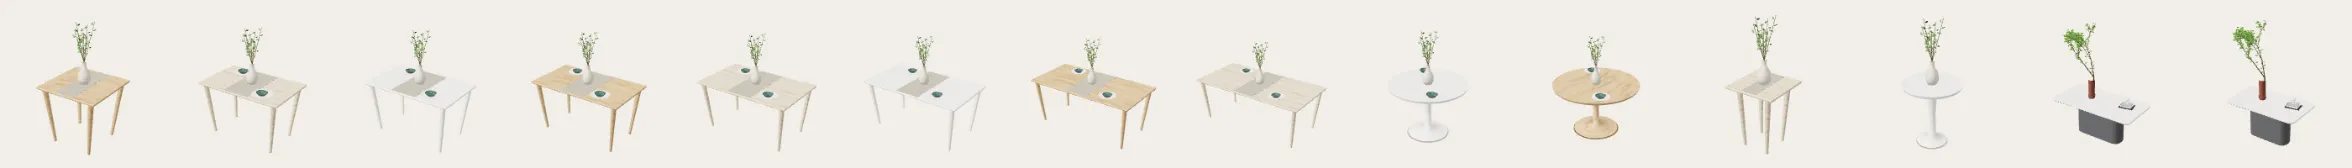
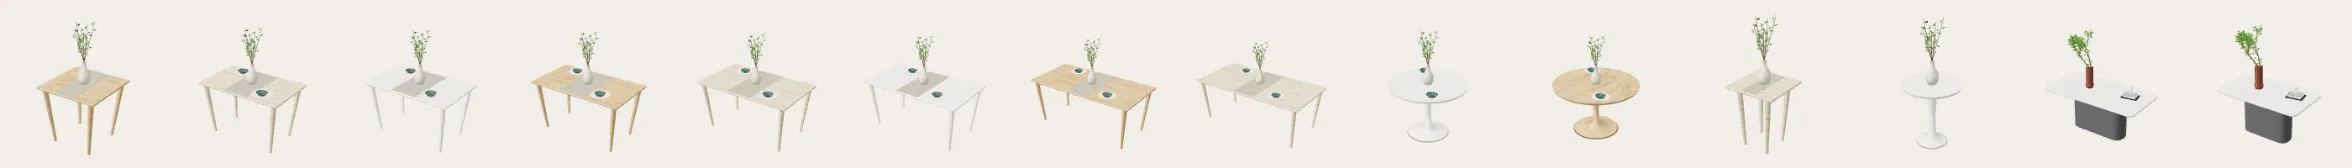
岩板餐桌上的枝葉縮小
Claude-Session: https://claude.ai/code/session_01DPbMHcao9tPiyFSu6sUn7z

diff --git a/js/plan.js b/js/plan.js
@@ -1,9 +1,9 @@
 // 新板東京 A1（11F）：依平面圖描出的牆、窗、地坪（單位 cm）
-import { PLAN_HH } from './plan-hh.js?v=20261118c';
-import { PLAN_XS } from './plan-xs.js?v=20261118c';
-import { PLAN_WX_A1 } from './plan-wx-a1.js?v=20261118c';
-import { PLAN_WX_A2 } from './plan-wx-a2.js?v=20261118c';
-import { PLAN_WX_B1 } from './plan-wx-b1.js?v=20261118c';
+import { PLAN_HH } from './plan-hh.js?v=20261118d';
+import { PLAN_XS } from './plan-xs.js?v=20261118d';
+import { PLAN_WX_A1 } from './plan-wx-a1.js?v=20261118d';
+import { PLAN_WX_A2 } from './plan-wx-a2.js?v=20261118d';
+import { PLAN_WX_B1 } from './plan-wx-b1.js?v=20261118d';
 
 const PLAN_A1 = {"H":280,"W":1248,"D":909.3,"walls":[[108.0,0.0,232.0,16.0,0,280],[232.0,0.0,372.0,16.0,0,70],[232.0,0.0,372.0,16.0,240,280],[372.0,0.0,461.3,16.0,0,280],[461.3,0.0,641.3,16.0,0,70],[461.3,0.0,641.3,16.0,240,280],[641.3,0.0,725.3,16.0,0,280],[725.3,0.0,905.3,16.0,0,70],[725.3,0.0,905.3,16.0,240,280],[905.3,0.0,1028.0,16.0,0,280],[108.0,0.0,205.3,106.7,0,280],[925.3,0.0,1028.0,96.0,0,280],[108.0,846.7,208.0,909.3,0,280],[928.0,846.7,1028.0,909.3,0,280],[108.0,106.7,125.3,329.3,0,280],[0.0,329.3,14.7,346.7,0,280],[14.7,329.3,78.7,346.7,0,120],[14.7,329.3,78.7,346.7,180,280],[0.0,346.7,14.7,669.3,0,280],[158.7,426.7,172.0,606.7,0,280],[172.0,426.7,561.3,440.0,0,280],[238.7,440.0,245.3,606.7,0,280],[548.0,440.0,558.7,520.0,0,280],[548.0,520.0,558.7,606.7,210,280],[554.7,326.7,565.3,426.7,210,280],[436.0,16.0,448.0,316.0,0,280],[436.0,316.0,561.3,326.7,0,280],[561.3,316.0,648.0,326.7,210,280],[648.0,16.0,661.3,326.7,0,280],[14.7,606.7,245.3,620.0,0,280],[245.3,606.7,265.3,620.0,0,280],[265.3,606.7,352.0,620.0,210,280],[368.0,606.7,561.3,620.0,0,280],[561.3,606.7,648.0,620.0,210,280],[648.0,606.7,661.3,620.0,0,280],[661.3,606.7,734.7,620.0,210,280],[734.7,606.7,832.0,620.0,0,280],[354.7,620.0,368.0,689.3,0,280],[354.7,689.3,368.0,826.7,0,70],[354.7,689.3,368.0,826.7,240,280],[354.7,826.7,368.0,893.3,0,280],[648.0,620.0,661.3,893.3,0,280],[818.7,620.0,832.0,893.3,0,280],[208.0,893.3,928.0,909.3,0,280],[1028.0,893.3,1248.0,909.3,0,280],[948.0,96.0,968.0,726.7,0,280],[968.0,709.3,1248.0,726.7,0,280],[1234.7,726.7,1248.0,740.0,0,280],[1234.7,740.0,1248.0,846.7,210,280],[1234.7,846.7,1248.0,893.3,0,280],[108.0,620.0,116.0,846.7,0,110],[8.0,661.3,108.0,669.3,0,110],[78.7,329.3,185.3,346.7,0,280],[172.0,346.7,185.3,426.7,210,280],[352.0,606.7,368.0,620.0,0,280]],"cuts":[[25],[28],[26,27],[20],[21],[22,23],[32]],"wins":[[232.0,0.0,372.0,16.0,70,240],[461.3,0.0,641.3,16.0,70,240],[725.3,0.0,905.3,16.0,70,240],[14.7,329.3,78.7,346.7,120,180],[354.7,689.3,368.0,826.7,70,240]],"floors":[[125.3,16.0,436.0,326.7,"main"],[185.3,326.7,561.3,426.7,"main"],[448.0,16.0,648.0,316.0,"main"],[561.3,316.0,648.0,326.7,"main"],[661.3,16.0,948.0,326.7,"main"],[561.3,326.7,948.0,620.0,"main"],[832.0,620.0,948.0,893.3,"main"],[368.0,620.0,648.0,893.3,"main"],[548.0,520.0,558.7,606.7,"main"],[14.7,346.7,158.7,606.7,"bath"],[661.3,620.0,818.7,893.3,"bath"],[172.0,440.0,238.7,606.7,"main"],[245.3,440.0,548.0,606.7,"main"],[948.0,726.7,1234.7,893.3,"main"],[116.0,620.0,354.7,893.3,"balc"],[8.0,620.0,108.0,661.3,"balc"],[265.3,606.7,352.0,620.0,"balc"],[158.7,346.7,172.0,426.7,"bath"],[172.0,346.7,185.3,426.7,"main"]],"slab":[[108.0,0.0,968.0,909.3],[0.0,329.3,108.0,669.3],[968.0,709.3,1248.0,909.3]],"rooms":[{"id":"ld","n":"客餐廳","rs":[[661.3,16.0,948.0,326.7],[561.3,326.7,948.0,620.0]],"r":[561.3,16.0,948.0,620.0]},{"id":"master","n":"主臥","rs":[[125.3,16.0,436.0,326.7],[172.0,326.7,561.3,426.7]],"r":[125.3,16.0,561.3,426.7]},{"id":"bed2","n":"臥室 2","rs":[[448.0,16.0,648.0,326.7]],"r":[448.0,16.0,648.0,326.7]},{"id":"bed3","n":"臥室 3","rs":[[368.0,620.0,648.0,893.3]],"r":[368.0,620.0,648.0,893.3]},{"id":"kitchen","n":"廚房","rs":[[172.0,440.0,558.7,606.7]],"r":[172.0,440.0,558.7,606.7]},{"id":"bath1","n":"主臥衛浴","rs":[[14.7,346.7,172.0,606.7]],"r":[14.7,346.7,172.0,606.7]},{"id":"bath2","n":"客用衛浴","rs":[[661.3,620.0,818.7,893.3]],"r":[661.3,620.0,818.7,893.3]},{"id":"foyer","n":"玄關","rs":[[832.0,620.0,948.0,893.3],[948.0,726.7,1234.7,893.3]],"r":[832.0,620.0,1234.7,893.3]},{"id":"balcony","n":"陽台","rs":[[116.0,620.0,354.7,893.3]],"r":[116.0,620.0,354.7,893.3]}],"defaults":[{"id":"d0","key":"sofa:5","x":900.0,"y":242.7,"r":90},{"id":"d1","key":"coffee:0","x":778.7,"y":242.7,"r":0},{"id":"d2","key":"tvcab:3","x":681.3,"y":233.3,"r":270},{"id":"d3","key":"tv:4","x":666.7,"y":233.3,"r":270},{"id":"d4","key":"rug:2","x":805.3,"y":242.7,"r":90},{"id":"d5","key":"lamp:0","x":925.3,"y":109.3,"r":0},{"id":"d6","key":"plant:3","x":921.3,"y":389.3,"r":0},{"id":"d7","key":"dtable:4","x":793.3,"y":478.7,"r":0},{"id":"d8","key":"chair:0","x":756.0,"y":420.0,"r":0},{"id":"d9","key":"chair:0","x":836.0,"y":420.0,"r":0},{"id":"d10","key":"chair:0","x":756.0,"y":556.0,"r":180},{"id":"d11","key":"chair:0","x":836.0,"y":556.0,"r":180},{"id":"d12","key":"bed:3","x":225.3,"y":189.3,"r":270},{"id":"d13","key":"nstand:1","x":148.0,"y":293.3,"r":270},{"id":"d14","key":"ward:1","x":406.7,"y":166.7,"r":90},{"id":"d15","key":"bed:1","x":505.3,"y":116.0,"r":0},{"id":"d16","key":"desk:1","x":617.3,"y":93.3,"r":90},{"id":"d17","key":"dchair:0","x":572.0,"y":93.3,"r":270},{"id":"d18","key":"shelf:1","x":632.0,"y":240.0,"r":90},{"id":"d19","key":"bed:3","x":548.0,"y":806.7,"r":90},{"id":"d20","key":"desk:1","x":398.7,"y":757.3,"r":270},{"id":"d21","key":"dchair:1","x":436.0,"y":757.3,"r":90},{"id":"d22","key":"ward:3","x":412.0,"y":862.7,"r":180},{"id":"d23","key":"cook:0","x":289.3,"y":470.7,"r":0},{"id":"d24","key":"hood:1","x":289.3,"y":465.3,"r":0},{"id":"d25","key":"kcab:2","x":357.3,"y":470.7,"r":0},{"id":"d26","key":"sink:2","x":426.7,"y":470.7,"r":0},{"id":"d27","key":"fridge:2","x":512.0,"y":477.3,"r":0},{"id":"d28","key":"tub:2","x":85.3,"y":570.7,"r":0},{"id":"d29","key":"toilet:1","x":50.7,"y":476.0,"r":270},{"id":"d30","key":"vanity:0","x":38.7,"y":384.0,"r":270},{"id":"d31","key":"mirror:0","x":22.7,"y":384.0,"r":270},{"id":"d32","key":"tub:3","x":740.0,"y":858.7,"r":0},{"id":"d33","key":"toilet:1","x":782.7,"y":720.0,"r":90},{"id":"d34","key":"vanity:0","x":788.0,"y":645.3,"r":0},{"id":"d35","key":"mirror:0","x":788.0,"y":628.0,"r":0},{"id":"d36","key":"washer:0","x":208.0,"y":656.0,"r":0},{"id":"d37","key":"shoe:4","x":1098.7,"y":746.7,"r":0},{"id":"d38","key":"plant:1","x":1205.3,"y":873.3,"r":0}],"door":[1237.3,740.0,1245.3,846.7],"start":[1175,793],"doors":[[1234.7,740.0,106.7,90,180],[648.0,321.3,86.7,180,270],[560.0,426.7,100.0,270,180],[553.3,606.7,86.7,270,180],[178.7,349.3,74.7,90,180],[352.0,613.3,86.7,180,90],[648.0,613.3,86.7,180,90],[661.3,613.3,73.3,0,90]]};
 

diff --git a/js/models.js b/js/models.js
@@ -1,8 +1,8 @@
 // 以程式產生的 3D 家具模型。每件家具都依型錄的實際尺寸（cm）建模，再整體縮成公尺。
 import * as THREE from 'three';
 import { RoundedBoxGeometry } from '../vendor/RoundedBoxGeometry.js';
-import { WOODS, FINISH } from './catalog.js?v=20261118c';
-import * as MT from './mats.js?v=20261118c';
+import { WOODS, FINISH } from './catalog.js?v=20261118d';
+import * as MT from './mats.js?v=20261118d';
 
 function rnd(seed) { let s = seed; return () => (s = (s * 16807) % 2147483647) / 2147483647; }
 function shade(hex, f) { const c = new THREE.Color(hex); c.multiplyScalar(f); return '#' + c.getHexString(); }
@@ -727,7 +727,7 @@ function branchTree(g, x, y, z, H, seed = 1) {
   seg(new THREE.Vector3(x, y, z), new THREE.Vector3(0.18, 1, 0.06).normalize(), H * 0.3, 1.4, 4);
   const lg = new THREE.PlaneGeometry(3.6, 1.8); lg.translate(1.8, 0, 0);
   const im = new THREE.InstancedMesh(lg, twoSided(MT.flat('#FFFFFF', 0.7)), leaves.length), o = new THREE.Object3D(), col = new THREE.Color();
-  leaves.forEach(([p, a, t], i) => { o.position.copy(p); o.rotation.set((t - 0.5) * 1.6, a, -0.4 + t * 0.8); o.scale.setScalar(0.8 + t * 0.5); o.updateMatrix(); im.setMatrixAt(i, o.matrix); im.setColorAt(i, col.set(t > 0.6 ? '#8CC152' : t > 0.3 ? '#5E9A38' : '#4C7F2E')); });
+  leaves.forEach(([p, a, t], i) => { o.position.copy(p); o.rotation.set((t - 0.5) * 1.6, a, -0.4 + t * 0.8); o.scale.setScalar(0.7 + t * 0.4); o.updateMatrix(); im.setMatrixAt(i, o.matrix); im.setColorAt(i, col.set(t > 0.6 ? '#8CC152' : t > 0.3 ? '#5E9A38' : '#4C7F2E')); });
   im.castShadow = true; g.add(im);
 }
 function slabTable(g, it, o) {
@@ -740,7 +740,7 @@ function slabTable(g, it, o) {
   const vx = -w * 0.14, vz = -d * 0.05, vh = 40;
   lathe(g, [[0, 0], [6.5, 0], [7, 2], [7, 4], [6.2, 5], [6.4, vh * 0.55], [6.6, vh - 1], [7, vh]], MT.flat('#7E4A3C', 0.12), vx, h, vz);
   cyl(g, 7.2, 7.2, 1.2, MT.flat('#7A4A3C', 0.3), vx, h + 3.2, vz, 24); cyl(g, 7.4, 7.4, 1, MT.flat('#7A4A3C', 0.3), vx, h + 6, vz, 24);
-  branchTree(g, vx, h + 4, vz, Math.min(150, 270 - h - 50), 7);
+  branchTree(g, vx, h + 4, vz, 95, 7);
   // 托盤＋書＋小白公仔
   const tx = w * 0.3, tz = -d * 0.12; rbox(g, 28, 1.2, 20, MT.flat('#2A2B2D', 0.4), tx, h + 0.6, tz, 0.5).rotation.y = 0.18;
   rbox(g, 22, 2.6, 16, MT.flat('#EDE6D8', 0.8), tx, h + 2.5, tz, 0.4).rotation.y = 0.12; rbox(g, 20, 2, 14, MT.flat('#8E9AA6', 0.8), tx, h + 4.8, tz, 0.4).rotation.y = 0.24;

diff --git a/js/phone.js b/js/phone.js
@@ -1,7 +1,7 @@
 // 手機端：風格、平面圖編輯器、3D 家具型錄、人偶、3D 導覽搖桿
-import { PLAN, UNIT, setUnit, roomAt, setCuts, cutRects } from './plan.js?v=20261118c';
-import { CATS, GROUPS, PEOPLE, getItem, STYLES, FLOOR_GROUPS, FLOORS, WALL_GROUPS, parseWall, FINISH, finishOf, lenRange, elevRange, resolvePeople, keepOffBeds } from './catalog.js?v=20261118c';
-import * as ART from './planart.js?v=20261118c';
+import { PLAN, UNIT, setUnit, roomAt, setCuts, cutRects } from './plan.js?v=20261118d';
+import { CATS, GROUPS, PEOPLE, getItem, STYLES, FLOOR_GROUPS, FLOORS, WALL_GROUPS, parseWall, FINISH, finishOf, lenRange, elevRange, resolvePeople, keepOffBeds } from './catalog.js?v=20261118d';
+import * as ART from './planart.js?v=20261118d';
 
 const $ = (id) => document.getElementById(id);
 const esc = (s) => String(s).replace(/[&<>"]/g, (c) => ({ '&': '&amp;', '<': '&lt;', '>': '&gt;', '"': '&quot;' }[c]));
@@ -452,7 +452,7 @@ function thumbStrip(key, sk) {
 async function fillThumbs() {
   const run = ++thumbRun, need = [...document.querySelectorAll('#list img[data-th]')];
   if (!need.length) return;   // 全部都有現成圖片：不用載入 3D 繪圖程式
-  try { thumbMod = thumbMod || await import('./thumbs.js?v=20261118c'); } catch (e) { return; }
+  try { thumbMod = thumbMod || await import('./thumbs.js?v=20261118d'); } catch (e) { return; }
   for (const img of need) {
     if (run !== thumbRun) return;
     const k = img.dataset.th;
@@ -485,7 +485,7 @@ function warmThumbs() {
 async function warmStep() {
   if (!warmList.length) return;
   if (S.drag || (S.st && S.st.mode === 'tour') || Date.now() - lastTouch < 1500) { warmTimer = setTimeout(warmStep, 600); return; }   // 手指在操作時不畫縮圖，按鈕才不會卡
-  try { thumbMod = thumbMod || await import('./thumbs.js?v=20261118c'); } catch (e) { return; }
+  try { thumbMod = thumbMod || await import('./thumbs.js?v=20261118d'); } catch (e) { return; }
   const k = warmList.shift();
   if (!thumbCache.has(k)) { const [key, sk] = k.split('@'); try { thumbCache.set(k, thumbMod.renderThumb(getItem(key, sk), sk)); } catch (e) { thumbCache.set(k, ''); } }
   warmTimer = setTimeout(warmStep, S.sheet ? 40 : 220);   // 型錄沒打開時慢慢畫就好

diff --git a/js/host.js b/js/host.js
@@ -1,10 +1,10 @@
 // 大螢幕（電腦）端：3D 場景、遊戲流程、手機連線
 import * as THREE from 'three';
 import { RoomEnvironment } from '../vendor/RoomEnvironment.js';
-import { PLAN, UNIT, UNITS, setUnit, roomAt, setCuts, cutRects } from './plan.js?v=20261118c';
-import { getItem, STYLES, FLOORS, WALL_GROUPS, parseWall, FINISH, finishOf, lenRange, elevRange, wallSegs, doorGap, resolvePeople, keepOffBeds } from './catalog.js?v=20261118c';
-import { buildItem, buildPerson, M } from './models.js?v=20261118c';
-import * as MT from './mats.js?v=20261118c';
+import { PLAN, UNIT, UNITS, setUnit, roomAt, setCuts, cutRects } from './plan.js?v=20261118d';
+import { getItem, STYLES, FLOORS, WALL_GROUPS, parseWall, FINISH, finishOf, lenRange, elevRange, wallSegs, doorGap, resolvePeople, keepOffBeds } from './catalog.js?v=20261118d';
+import { buildItem, buildPerson, M } from './models.js?v=20261118d';
+import * as MT from './mats.js?v=20261118d';
 import { EffectComposer } from '../vendor/jsm/postprocessing/EffectComposer.js';
 import { RenderPass } from '../vendor/jsm/postprocessing/RenderPass.js';
 import { GTAOPass } from '../vendor/jsm/postprocessing/GTAOPass.js';

diff --git a/js/thumbs.js b/js/thumbs.js
@@ -1,9 +1,9 @@
 // 手機型錄用的 3D 縮圖：把每件家具的 3D 模型算成一張小圖
 import * as THREE from 'three';
 import { RoomEnvironment } from '../vendor/RoomEnvironment.js';
-import { STYLES } from './catalog.js?v=20261118c';
-import { buildItem, buildPerson } from './models.js?v=20261118c';
-import { setTexSize } from './mats.js?v=20261118c';
+import { STYLES } from './catalog.js?v=20261118d';
+import { buildItem, buildPerson } from './models.js?v=20261118d';
+import { setTexSize } from './mats.js?v=20261118d';
 setTexSize(256);
 
 let R = null, scene, cam;

diff --git a/js/planart.js b/js/planart.js
@@ -1,6 +1,6 @@
 // 手機平面圖的繪製：有材質的地板、粗黑牆、門弧線，以及每種家具的俯視圖（單位 cm，等比例）
-import { PLAN } from './plan.js?v=20261118c';
-import { STYLES, FLOORS, planColor, wallSegs, doorGap } from './catalog.js?v=20261118c';
+import { PLAN } from './plan.js?v=20261118d';
+import { STYLES, FLOORS, planColor, wallSegs, doorGap } from './catalog.js?v=20261118d';
 
 const INK = '#4A4038';
 function tint(hex, f) {   // f > 1 變亮，f < 1 變暗

diff --git a/index.html b/index.html
@@ -85,6 +85,6 @@
   <div id="tip" class="card">3D 畫面為示意，家具與裝潢非交屋附贈，實際以合約為準。</div>
 </div>
 
-<script type="module" src="./js/host.js?v=20261118c"></script>
+<script type="module" src="./js/host.js?v=20261118d"></script>
 </body>
 </html>

diff --git a/phone.html b/phone.html
@@ -189,6 +189,6 @@
   <div class="chips" id="cats"></div>
   <div id="list"></div>
 </div>
-<script type="module" src="./js/phone.js?v=20261118c"></script>
+<script type="module" src="./js/phone.js?v=20261118d"></script>
 </body>
 </html>
